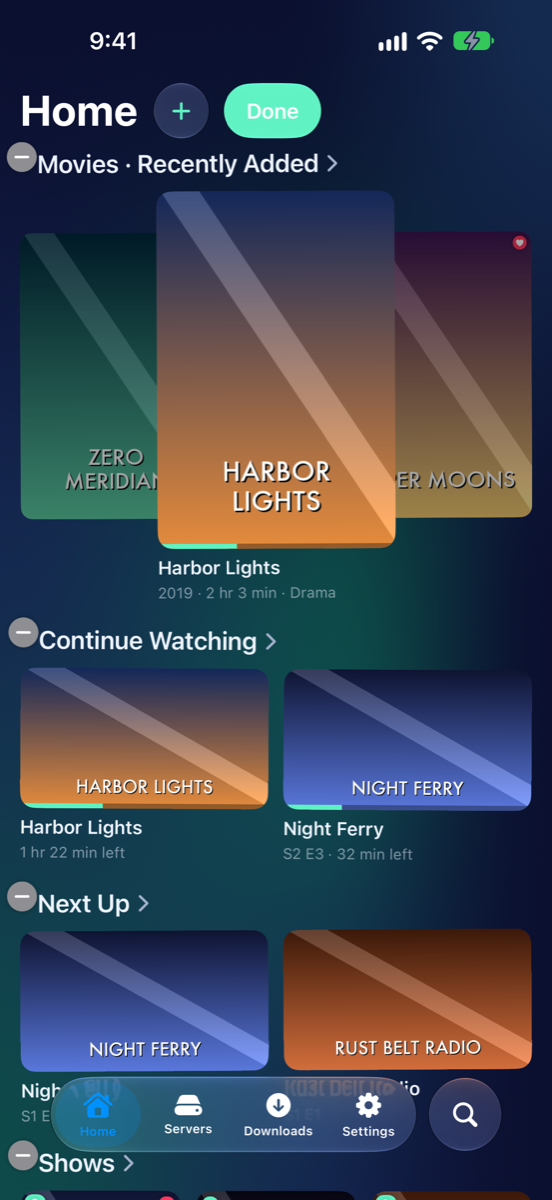
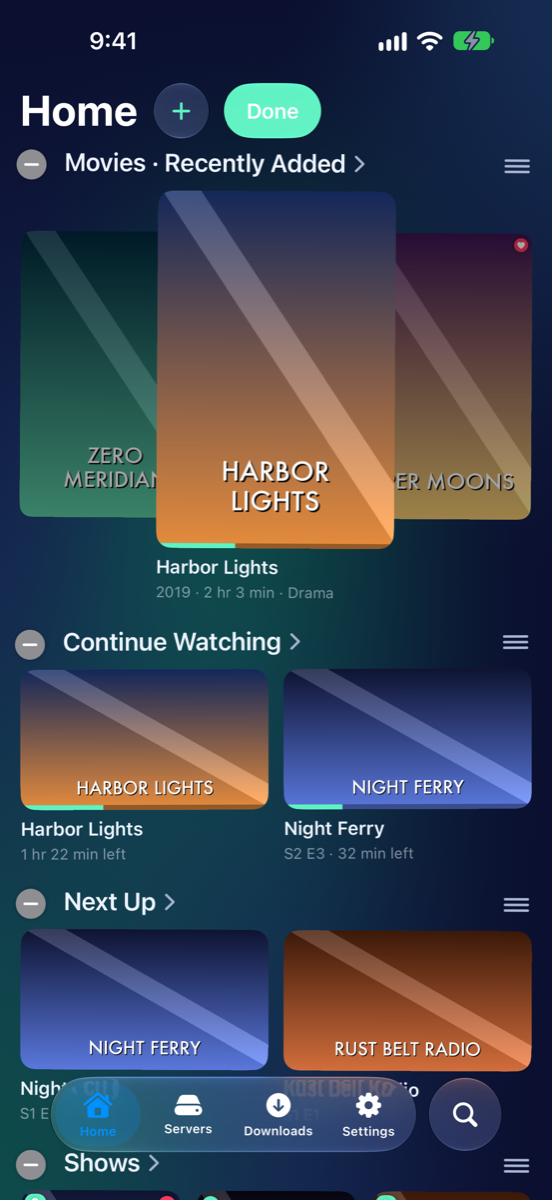
Publish the guide (from ff46710)

diff --git a/whats-new.md b/whats-new.md
@@ -12,6 +12,29 @@ The highlights of each MK Plus update since public TestFlight testing began (ver
 
 ## November 2026
 
+### Editing Home, tidied
+
+_Version 1.361.0 · 13 November 2026_
+
+- While editing Home, a shelf's remove button sits beside its name instead of on top of it.
+- Three lines at a shelf's right show you can drag it.
+- Covers that stayed grey since 1.355.0 load again.
+
+<img src="images/iphone-18-pro-max/home-edit.png" width="300" alt="Home while editing on an iPhone 18 Pro Max: each shelf's remove button beside its name, a grip at the right of the name line">
+
+<details markdown="1">
+<summary>Everything in 1.361.0</summary>
+
+**Changed**
+
+- Editing Home: each shelf's − sits beside its name, not over its first letter, and a grip at the right shows the shelf can be dragged.
+
+**Fixed**
+
+- Covers on Home, in libraries and on a movie's page could stay grey since 1.355.0; they load again.
+
+</details>
+
 ### A calmer tap-zone guide
 
 _Version 1.360.0 · 13 November 2026_

diff --git a/Home-Screen.md b/Home-Screen.md
@@ -101,7 +101,7 @@ A stack puts several widgets in one spot, with a row of their names to switch be
 
 1. Tap **Edit** (the pencil), or press and hold anything on Home.
 2. Tap a widget to change it: its name, style, how many it shows and, for a smart widget, which servers and libraries it takes from. **Remove from Home** is at the bottom.
-3. Hold a widget and drag it to move it.
+3. Hold a widget and drag it to move it. A shelf shows three lines at its right to say it can be dragged, and the **−** before its name takes it off Home.
 4. Tap **+** to add a widget.
 5. Tap **Done**.
 
